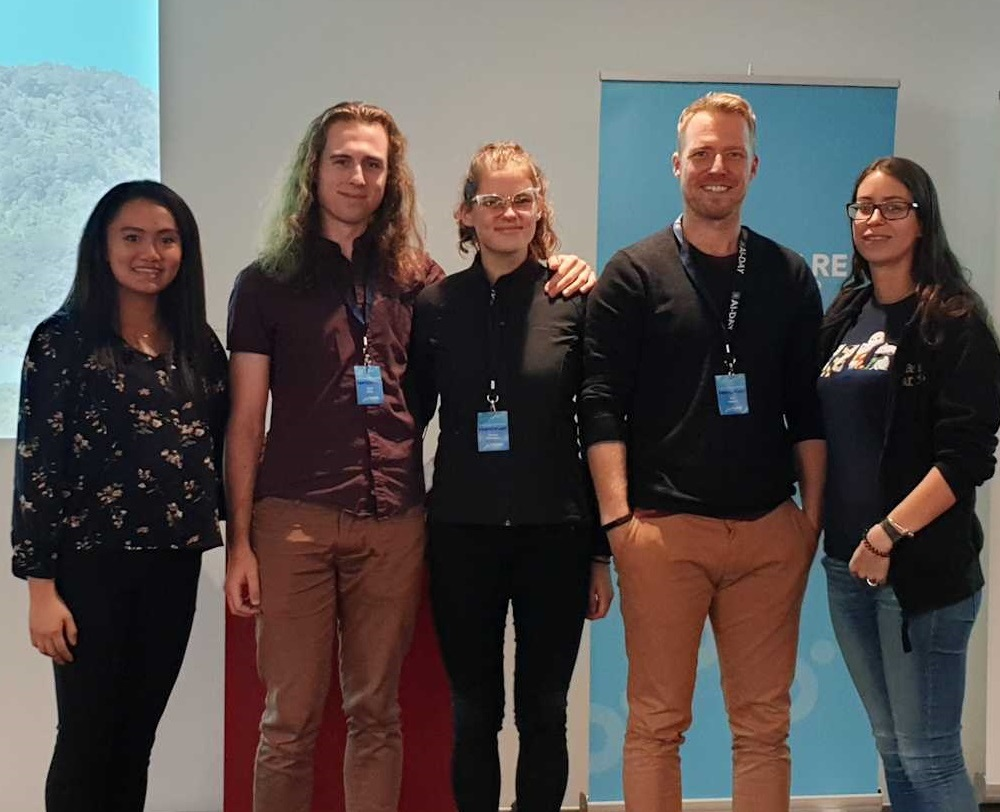
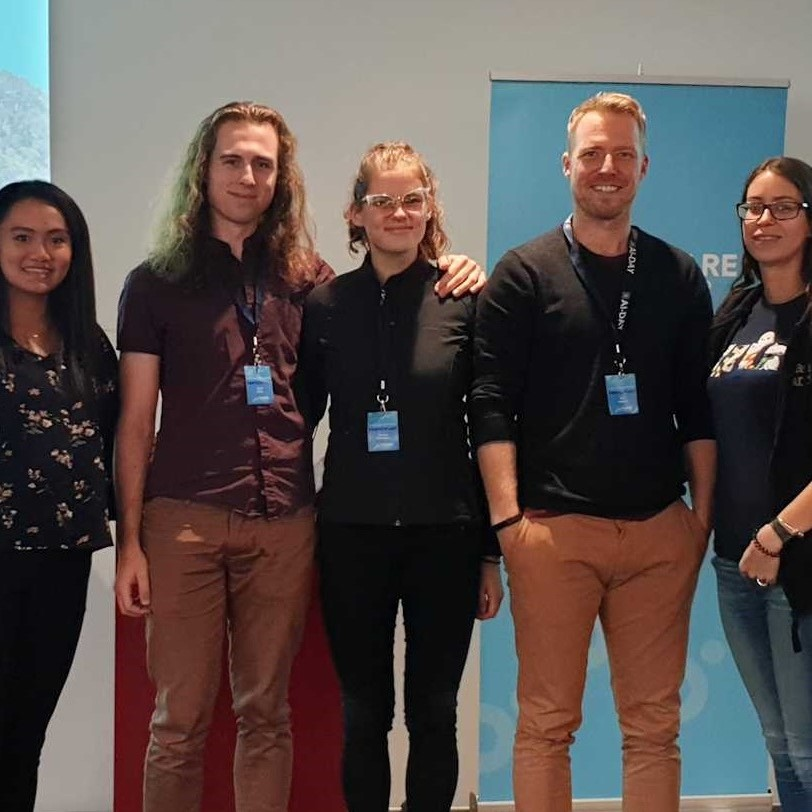
Added a new list item to the Aidan Card. Put first and last names in separate h3 elements.
Cropped photo so that it isn't as stretched

diff --git a/src/components/Card/Cards.js b/src/components/Card/Cards.js
@@ -14,7 +14,7 @@ function Cards() {
       <Card style={{ width: '18rem' }}>
         <Card.Img variant="top" src={MoniqueCardImg} />
         <Card.Body>
-          <Card.Title><h3>Monique Warrington</h3></Card.Title>
+          <Card.Title><h3>Monique</h3><h3>Warrington</h3></Card.Title>
           <ListGroup variant="flush">
             <ListGroup.Item>Second Year Software Development Student</ListGroup.Item>
             <ListGroup.Item>Charity and Event Coordinator at ImpactNPO since October 2018</ListGroup.Item>
@@ -32,9 +32,10 @@ function Cards() {
       <Card style={{ width: '18rem' }}>
         <Card.Img variant="top" src={AidanCard} />
         <Card.Body>
-          <Card.Title><h3>Aidan Harris</h3></Card.Title>
+          <Card.Title ><h3>Aidan</h3><h3>Harris</h3></Card.Title>
           <ListGroup variant="flush">
-            <ListGroup.Item>One and a half years experience as a Software Developer</ListGroup.Item>
+            <ListGroup.Item>Seven months experience as a back-end Java Developer</ListGroup.Item>
+            <ListGroup.Item>Eight months experience as a full-stack C# WPF Application Developer</ListGroup.Item>
             <ListGroup.Item>Bachelor of Information Sciences with a major in Computer Science</ListGroup.Item>
             <ListGroup.Item>Also really wants to be a part of DataComp Talent-X 2019</ListGroup.Item>
             <ListGroup.Item>
